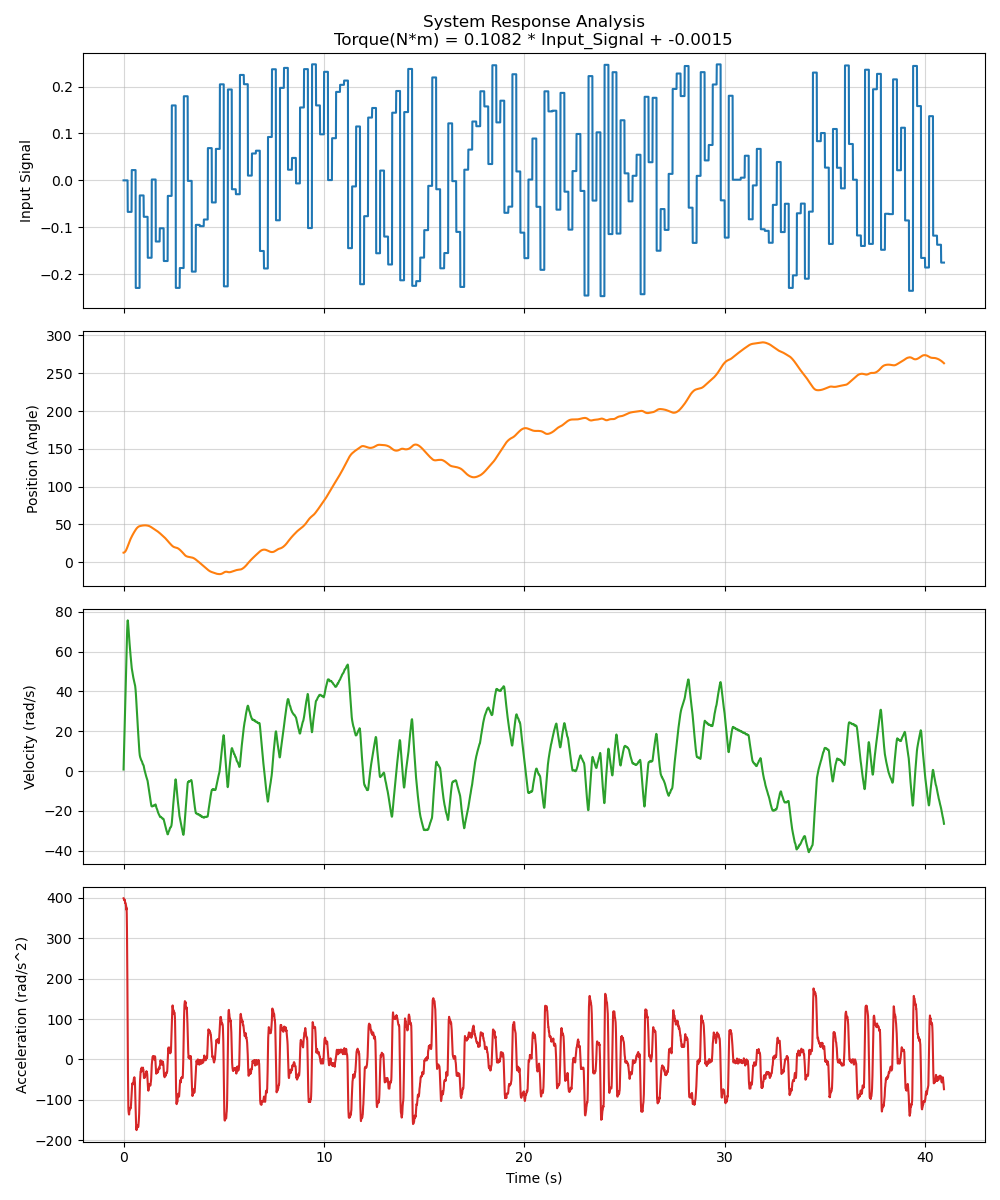
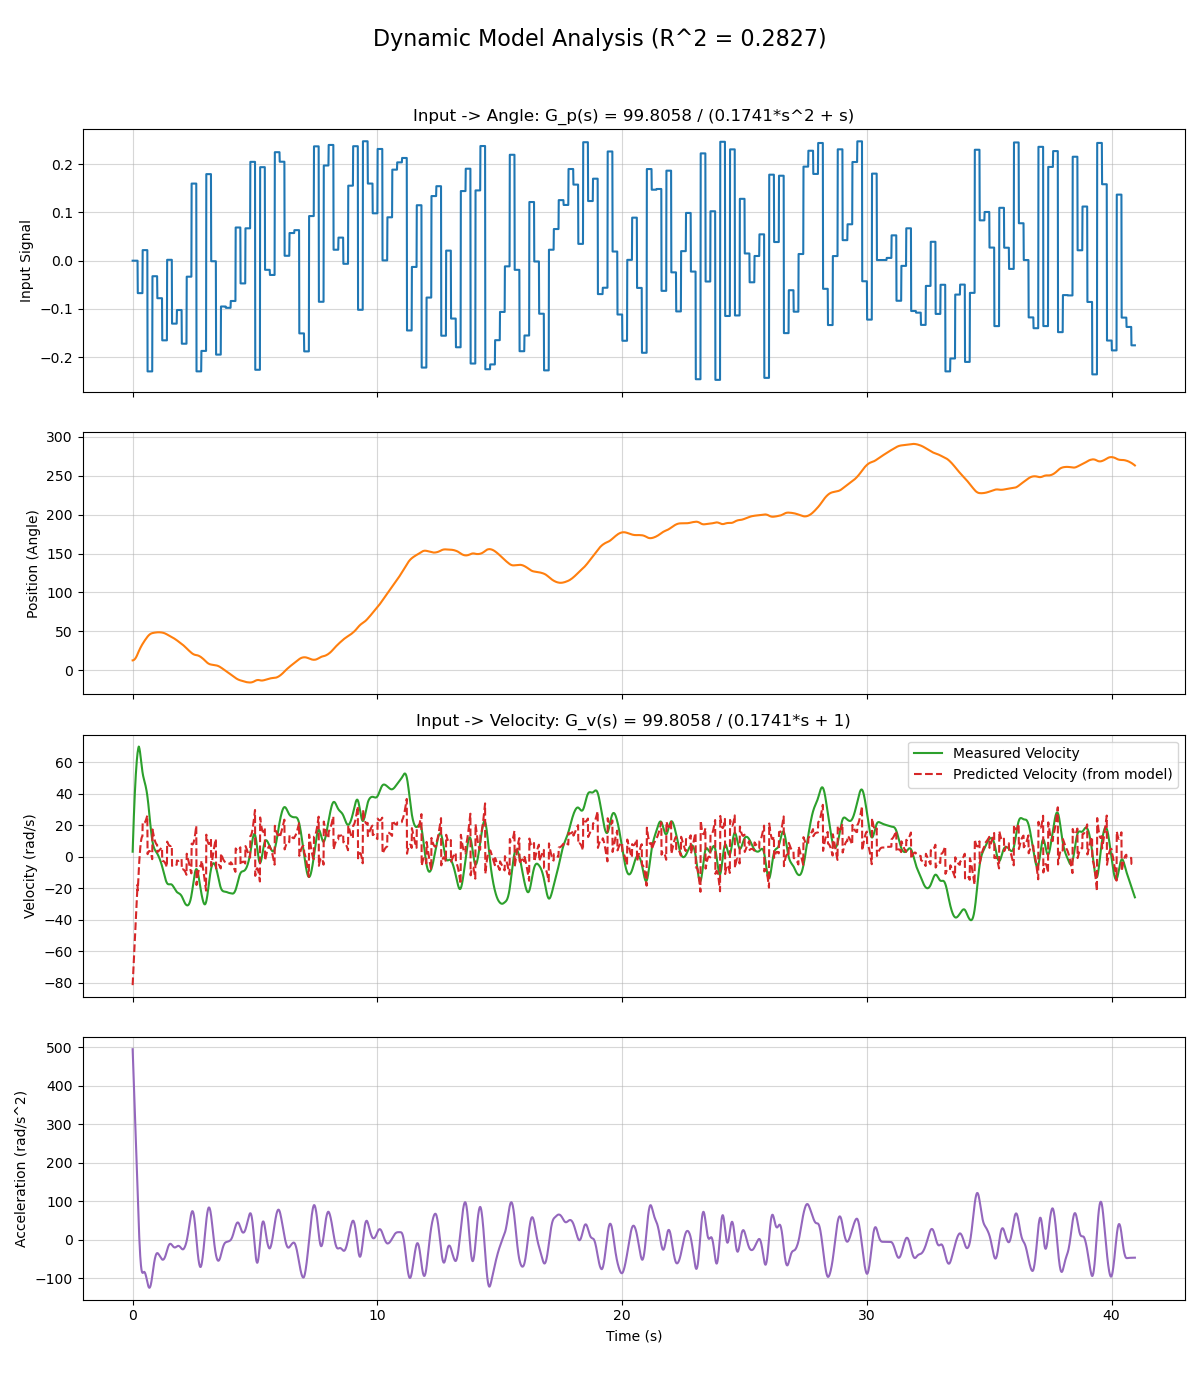
Refactor estimation to estimate a dynamic input/position

Changed region(s): [[0.0, 0.0, 0.992, 0.9867], [0.0, 0.1233, 0.031, 0.2158]]

diff --git a/motor_identification/host/estimate.py b/motor_identification/host/estimate.py
@@ -2,7 +2,7 @@ import pandas as pd
 import numpy as np
 import matplotlib.pyplot as plt
 from scipy.signal import savgol_filter
-from scipy import stats
+from scipy.linalg import lstsq  # Using least squares for multiple regression
 import json
 
 # --- Configuration ---
@@ -40,67 +40,170 @@ def main():
     window_length = 11 
     poly_order = 3
 
-    df['Velocity'] = savgol_filter(df['Angle'], window_length, poly_order, deriv=1, delta=dt)
-    df['Acceleration'] = savgol_filter(df['Angle'], window_length, poly_order, deriv=2, delta=dt)
+    # We need a longer window for stable derivatives, especially acceleration
+    # Let's increase it.
+    window_length_deriv = 51 # Must be odd
+    if window_length_deriv <= poly_order:
+        print(f"Warning: window_length ({window_length_deriv}) <= poly_order ({poly_order}). Adjusting.")
+        window_length_deriv = poly_order + 2
+        if window_length_deriv % 2 == 0: # ensure odd
+             window_length_deriv += 1
 
-    # 3. Physics Calculation
+    print(f"Using Sav-Gol filter: window={window_length_deriv}, order={poly_order}")
+    df['Velocity'] = savgol_filter(df['Angle'], window_length_deriv, poly_order, deriv=1, delta=dt)
+    df['Acceleration'] = savgol_filter(df['Angle'], window_length_deriv, poly_order, deriv=2, delta=dt)
+
+    # 3. Physics Calculation (for Torque TF)
     print(f"Load Properties: Ring (Mass={MASS}kg, R_in={RADIUS_INNER}m, R_out={RADIUS_OUTER}m)")
     
     # Inertia for thick-walled ring
     inertia = 0.5 * MASS * (RADIUS_INNER**2 + RADIUS_OUTER**2)
     print(f"Calculated Moment of Inertia (I): {inertia:.6e} kg*m^2")
 
-    df['Estimated_Torque'] = inertia * df['Acceleration']
+    # 4. Estimate Dynamic Transfer Function
+    # We are fitting the model:
+    # Velocity = K_m * Input - T_m * Acceleration + Intercept
+    
+    # We use numpy.linalg.lstsq to solve A*x = b
+    # b is the dependent variable (Velocity)
+    b = df['Velocity'].to_numpy(dtype=float)
+    
+    # A contains the independent variables (Input, Acceleration, and a constant)
+    A = np.vstack([
+        df['Input'].to_numpy(dtype=float), 
+        df['Acceleration'].to_numpy(dtype=float), 
+        np.ones(len(df))
+    ]).T
+    
+    # Solve for x = [coeff_Input, coeff_Accel, coeff_Intercept]
+    try:
+        lstsq_res = lstsq(A, b)
+        assert lstsq_res is not None, "Least squares solution failed."
+        x, residuals, rank, s = lstsq_res 
 
-    # 4. Estimate Transfer Function
-    slope, intercept, r_value, p_value, std_err = stats.linregress(df['Input'], df['Estimated_Torque'])
+        # Extract parameters
+        K_m = x[0]
+        T_m = -x[1]  # Note the negative sign
+        Intercept = x[2]
+
+        # Calculate R^2 for fit
+        ss_total = np.sum((b - np.mean(b))**2)
+
+        # `residuals` returned by scipy.linalg.lstsq can be an empty array
+        # (for underdetermined systems) or a scalar; handle both cases.
+        try:
+            res_arr = np.asarray(residuals)
+            if res_arr.size == 0:
+                # Compute residuals manually if not provided
+                ss_residual = np.sum((b - A.dot(x))**2)
+            else:
+                ss_residual = float(res_arr.ravel()[0])
+        except Exception:
+            # Fallback: compute residuals directly
+            ss_residual = np.sum((b - A.dot(x))**2)
+
+        r_squared = 1 - (ss_residual / ss_total) if ss_total > 0 else 0.0
+
+    except Exception as e:
+        print(f"Error during Linear Regression: {e}")
+        return
+
+    print("\n--- Model Estimation Results ---")
+    print(f"Model: Velocity = K_m * Input - T_m * Acceleration + Intercept")
+    print(f"  K_m (Gain):         {K_m:.6f}")
+    print(f"  T_m (Time Const):   {T_m:.6f}")
+    print(f"  Intercept:        {Intercept:.6f}")
+    print(f"  Fit (R^2):        {r_squared:.6f}")
+
+    # --- Derived Transfer Functions ---
+    # G_p(s) = Angle(s) / Input(s) = K_m / (T_m*s^2 + s)
+    tf_angle = f"G_p(s) = {K_m:.4f} / ({T_m:.4f}*s^2 + s)"
     
-    transfer_function_str = f"Torque(N*m) = {slope:.4f} * Input_Signal + {intercept:.4f}"
-    
-    print("\n--- Results ---")
-    print(f"Transfer Function: {transfer_function_str}")
-    print(f"Correlation (R^2): {r_value**2:.4f}") # type: ignore
+    # G_v(s) = Velocity(s) / Input(s) = s * G_p(s) = K_m / (T_m*s + 1)
+    tf_velocity = f"G_v(s) = {K_m:.4f} / ({T_m:.4f}*s + 1)"
+
+    # G_a(s) = Accel(s) / Input(s) = s * G_v(s) = {K_m*s} / (T_m*s + 1)
+    tf_accel = f"G_a(s) = ({K_m:.4f}*s) / ({T_m:.4f}*s + 1)"
+
+    # G_t(s) = Torque(s) / Input(s) = I * G_a(s) = (I*K_m*s) / (T_m*s + 1)
+    tf_torque_gain = inertia * K_m
+    tf_torque = f"G_t(s) = ({tf_torque_gain:.4e}*s) / ({T_m:.4f}*s + 1)"
+
+    print("\n--- Derived Transfer Functions ---")
+    print(f"Input -> Angle:       {tf_angle}")
+    print(f"Input -> Velocity:    {tf_velocity}")
+    print(f"Input -> Acceleration: {tf_accel}")
+    print(f"Input -> Torque (Est): {tf_torque}")
+
 
     # 5. Save Model to JSON
     model_data = {
-        "slope": slope,
-        "intercept": intercept,
-        "inertia": inertia,
-        "mass": MASS,
-        "note": "Generated by estimate.py"
+        "model_type": "Dynamic_2ndOrder",
+        "model_equation": "T_m * Accel + Velocity = K_m * Input + Intercept",
+        "parameters": {
+            "K_m_gain": K_m,
+            "T_m_time_constant": T_m,
+            "intercept": Intercept,
+            "r_squared": r_squared
+        },
+        "physics": {
+            "inertia_kg_m2": inertia,
+            "mass_kg": MASS,
+            "radius_inner_m": RADIUS_INNER,
+            "radius_outer_m": RADIUS_OUTER
+        },
+        "transfer_functions": {
+            "input_to_angle": tf_angle,
+            "input_to_velocity": tf_velocity,
+            "input_to_acceleration": tf_accel,
+            "input_to_torque": tf_torque
+        }
     }
     
     try:
         with open(OUTPUT_MODEL_FILE, 'w') as f:
             json.dump(model_data, f, indent=4)
         print(f"\n[SUCCESS] Model parameters saved to '{OUTPUT_MODEL_FILE}'.")
-        print("You can now run validate.py without manual input.")
     except Exception as e:
         print(f"Error saving model file: {e}")
 
     # 6. Plotting
     print("Plotting results...")
-    fig, axs = plt.subplots(4, 1, figsize=(10, 12), sharex=True)
     
+    # Calculate predicted velocity for validation plot
+    df['Predicted_Velocity'] = K_m * df['Input'] - T_m * df['Acceleration'] + Intercept
+    
+    fig, axs = plt.subplots(4, 1, figsize=(12, 14), sharex=True)
+    
+    fig.suptitle(f'Dynamic Model Analysis (R^2 = {r_squared:.4f})', fontsize=16)
+
+    # --- Plot 1: Input ---
     axs[0].plot(df['Time(s)'], df['Input'], color='tab:blue')
     axs[0].set_ylabel('Input Signal')
-    axs[0].set_title(f'System Response Analysis\n{transfer_function_str}')
+    axs[0].set_title(f'Input -> Angle: {tf_angle}')
     axs[0].grid(True, alpha=0.5)
 
+    # --- Plot 2: Angle ---
     axs[1].plot(df['Time(s)'], df['Angle'], color='tab:orange')
     axs[1].set_ylabel('Position (Angle)')
     axs[1].grid(True, alpha=0.5)
 
-    axs[2].plot(df['Time(s)'], df['Velocity'], color='tab:green')
+    # --- Plot 3: Velocity (Measured vs. Predicted) ---
+    axs[2].plot(df['Time(s)'], df['Velocity'], color='tab:green', label='Measured Velocity')
+    axs[2].plot(df['Time(s)'], df['Predicted_Velocity'], color='tab:red', 
+                linestyle='--', label='Predicted Velocity (from model)')
     axs[2].set_ylabel('Velocity (rad/s)')
+    axs[2].legend(loc='upper right')
     axs[2].grid(True, alpha=0.5)
+    axs[2].set_title(f'Input -> Velocity: {tf_velocity}')
 
-    axs[3].plot(df['Time(s)'], df['Acceleration'], color='tab:red')
+    # --- Plot 4: Acceleration ---
+    axs[3].plot(df['Time(s)'], df['Acceleration'], color='tab:purple')
     axs[3].set_ylabel('Acceleration (rad/s^2)')
     axs[3].set_xlabel('Time (s)')
     axs[3].grid(True, alpha=0.5)
     
-    plt.tight_layout()
+    plt.tight_layout(rect=[0, 0.03, 1, 0.96]) # Adjust for suptitle
     plt.savefig('estimation_results.png')
     print("Plot saved to 'estimation_results.png'. Displaying...")
     plt.show()
